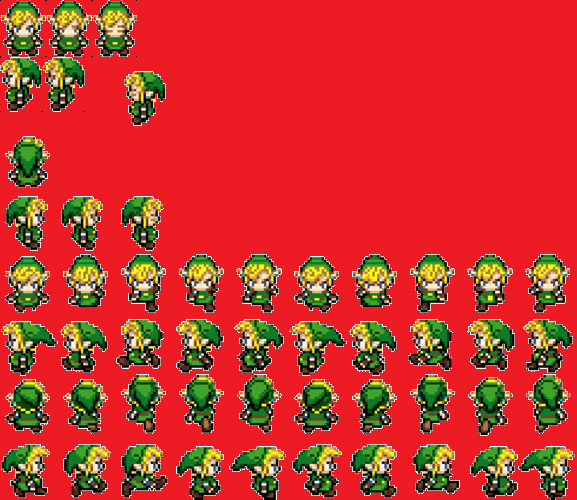
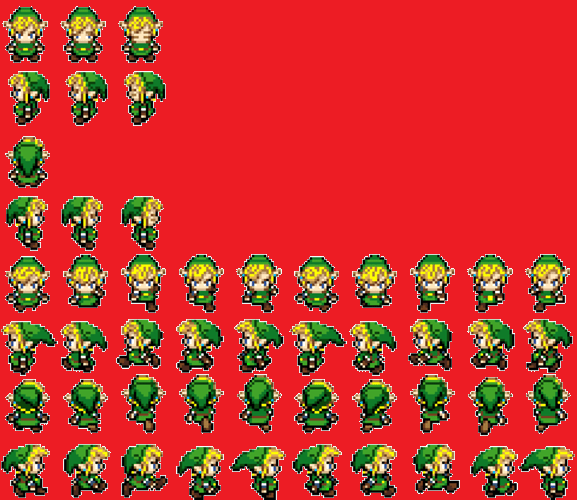
retouch unmove

Changed region(s): [[0.0, 0.0, 0.2808, 0.27]]

diff --git a/move_my_character_with_key.py b/move_my_character_with_key.py
@@ -11,7 +11,8 @@ background = load_image("TUK_GROUND.png")
 character = load_image("animation_sheet.png")
 character_dir = "UNMOVE"
 x, y = TUK_WIDTH // 2, TUK_HEIGHT // 2
-coordinate = ((((3,47), (61, 104), (119, 162)), (500 - 6, 500 - 62)))
+coordinate = ((((3,47), (61, 104), (119, 162)), (500 - 6 - 1, 500 - 62 - 1)),
+              (((1, 50), (63, 110), (121, 167), (176, 223), (228, 285), (292, 341), (350, 396), (412, 459), (470, 517), (518, 574)), (500 - 444 - 1, 500 - 499 - 1)))
 
 frame = 0
 
@@ -20,11 +21,11 @@ def character_motion(dir):
     global frame, x, y
 
     if dir == "UNMOVE":
-        print("unmove")
-        character.clip_draw(coordinate[0][frame][0], coordinate[1][1], (coordinate[0][frame][1] - coordinate[0][frame][0]), (coordinate[1][0] - coordinate[1][1]), x, y)
+        character.clip_draw(coordinate[0][0][frame][0], coordinate[0][1][1], (coordinate[0][0][frame][1] - coordinate[0][0][frame][0]), (coordinate[0][1][0] - coordinate[0][1][1]), x, y)
         frame = (frame + 1) % 3
     elif dir == "RIGHT":
         print("right")
+        #character.clip_draw(coordinate[1][0][frame][0], coordinate[1][1][1], ())
     elif dir == "LEFT":
         print("left")
     elif dir == "UP":
